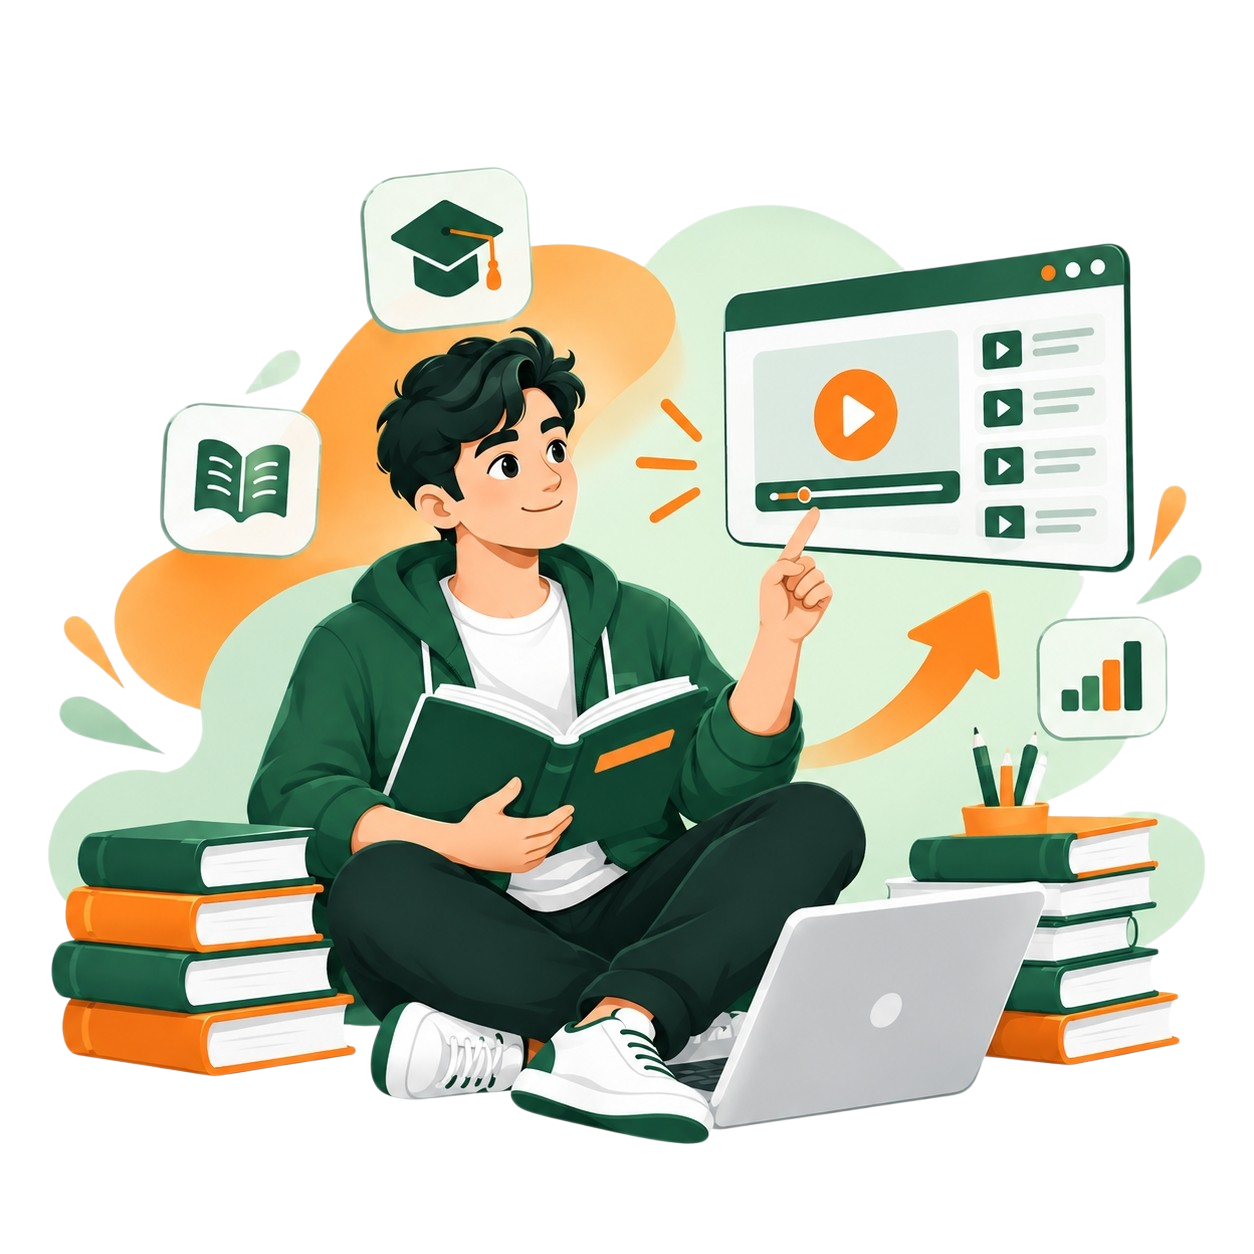
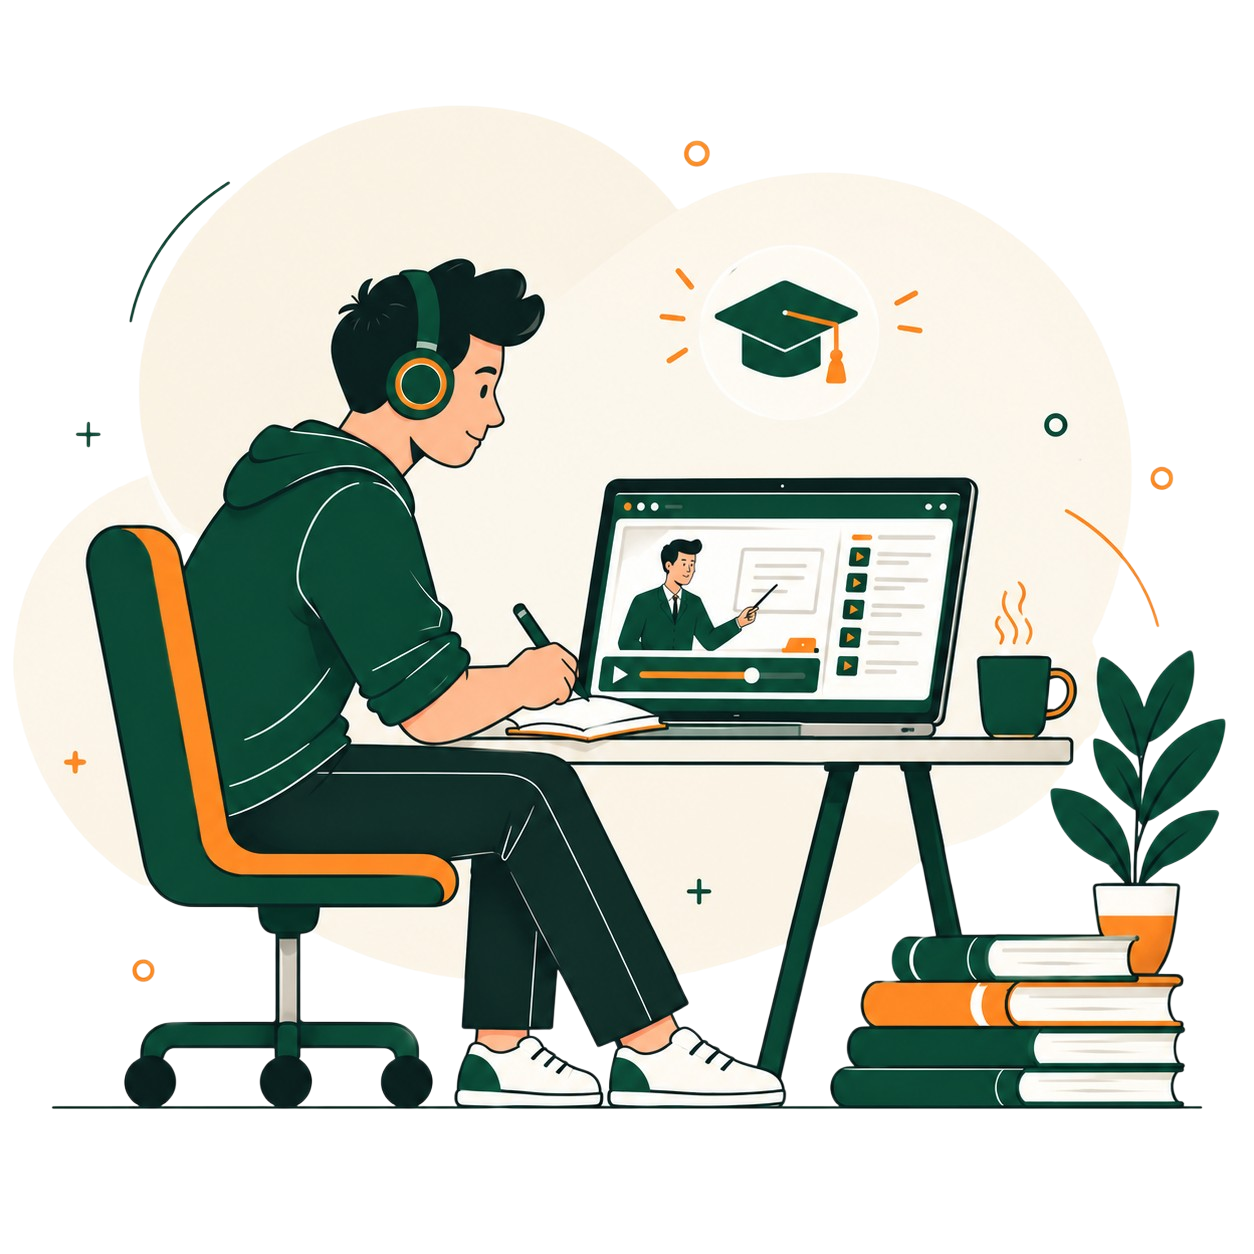
Add files via upload

diff --git a/src/lib/i18n.tsx b/src/lib/i18n.tsx
@@ -4,7 +4,7 @@ export type Lang = "ar" | "en";
 
 const dict = {
   ar: {
-    brand: "منصة إتقان",
+    brand: "إتقان",
     tagline: "رحلتك نحو التفوق تبدأ هنا.",
     login: "تسجيل الدخول",
     signup: "إنشاء حساب",
